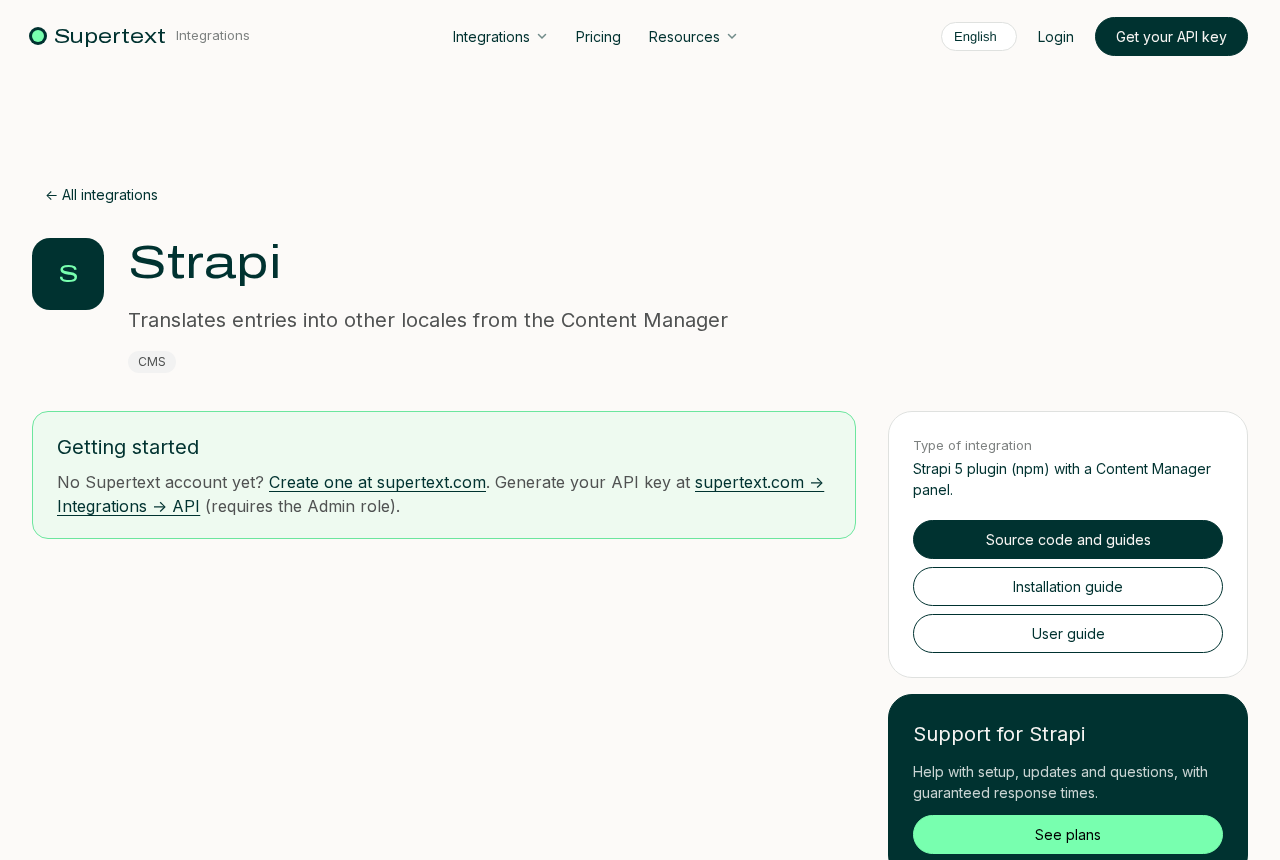
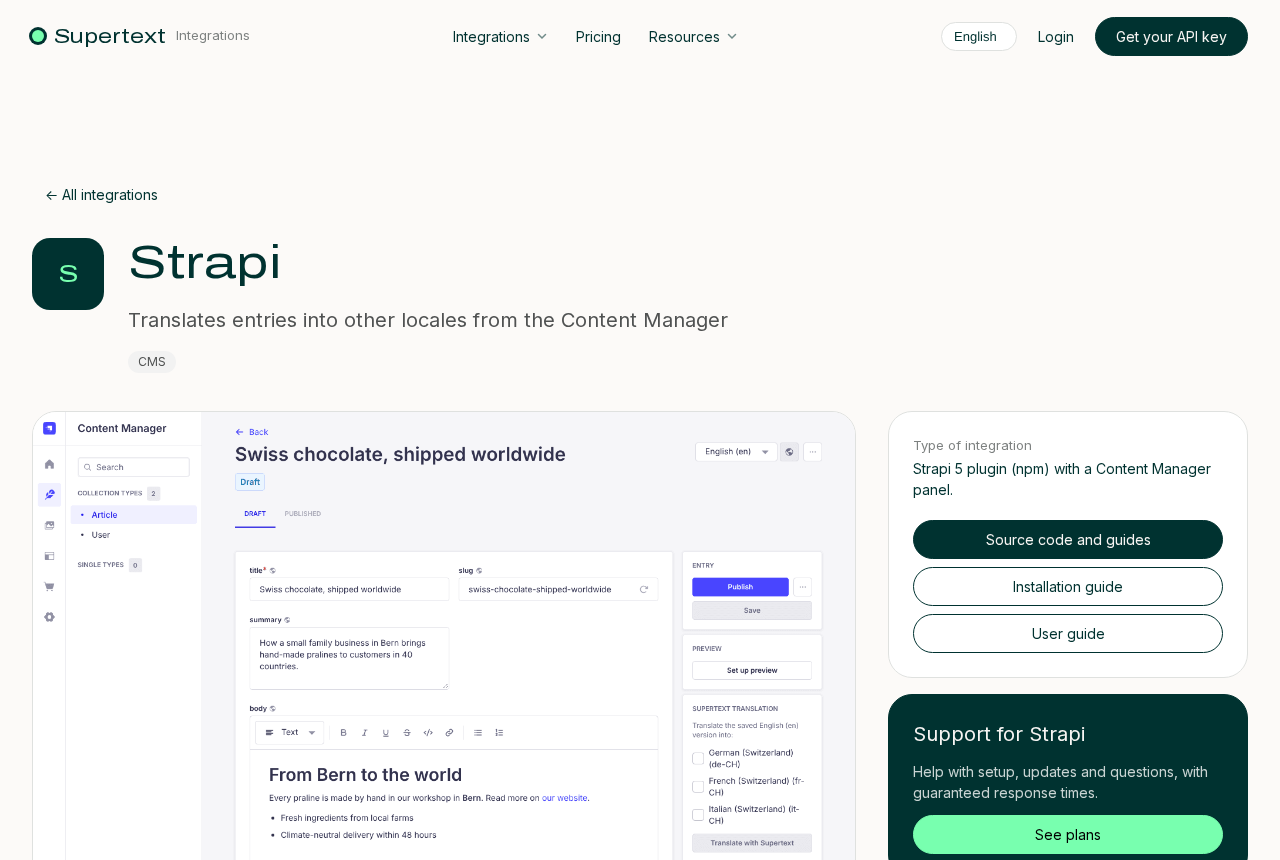
Integration screenshots on cards and integration pages
New screenshot field on Integration. On start, integrations without one get the
plugin screenshot from their repo's docs (seed/screenshots.js, 26 of 31).

Claude-Session: https://claude.ai/code/session_01QsR9paqC9omeCqnFui4tiq

diff --git a/cms/src/screenshots.js b/cms/src/screenshots.js
@@ -1,0 +1,78 @@
+'use strict';
+
+const fs = require('fs');
+const os = require('os');
+const path = require('path');
+const SOURCES = require('./seed/screenshots');
+
+const UID = 'api::integration.integration';
+
+/** True when the draft has changes that aren't published yet (then we leave publishing to the editor). */
+async function hasUnpublishedChanges(strapi, documentId) {
+  const [draft, published] = await Promise.all([
+    strapi.documents(UID).findOne({ documentId, locale: 'en', status: 'draft', fields: ['updatedAt'] }),
+    strapi.documents(UID).findOne({ documentId, locale: 'en', status: 'published', fields: ['updatedAt'] }),
+  ]);
+  if (!published) return true;
+  return new Date(draft.updatedAt) - new Date(published.updatedAt) > 1000;
+}
+
+/**
+ * Gives each integration without a screenshot the one listed in seed/screenshots.js,
+ * downloaded from its GitHub repo. Runs on every start; does nothing once all are set.
+ */
+async function importScreenshots(strapi) {
+  const items = await strapi.documents(UID).findMany({
+    locale: 'en',
+    status: 'draft',
+    fields: ['slug', 'system', 'repo'],
+    populate: ['screenshot'],
+    limit: 500,
+  });
+  const todo = items.filter((i) => !i.screenshot && SOURCES[i.slug] && i.repo);
+  if (!todo.length) return;
+
+  const upload = strapi.plugin('upload').service('upload');
+  const dir = fs.mkdtempSync(path.join(os.tmpdir(), 'screenshots-'));
+  let done = 0;
+  try {
+    for (const item of todo) {
+      const source = SOURCES[item.slug];
+      try {
+        const res = await fetch(`https://raw.githubusercontent.com/${item.repo}/HEAD/${source}`);
+        if (!res.ok) throw new Error(`GitHub ${res.status}`);
+        const buffer = Buffer.from(await res.arrayBuffer());
+        const ext = path.extname(source).toLowerCase();
+        const filename = `${item.slug}-supertext${ext}`;
+        const filepath = path.join(dir, filename);
+        fs.writeFileSync(filepath, buffer);
+        const [file] = await upload.upload({
+          data: {
+            fileInfo: {
+              name: filename,
+              alternativeText: `Supertext translation in ${item.system}`,
+              caption: `Supertext in ${item.system}`,
+            },
+          },
+          files: {
+            filepath,
+            originalFilename: filename,
+            mimetype: ext === '.jpg' || ext === '.jpeg' ? 'image/jpeg' : 'image/png',
+            size: buffer.length,
+          },
+        });
+        const publish = !(await hasUnpublishedChanges(strapi, item.documentId));
+        await strapi.documents(UID).update({ documentId: item.documentId, locale: 'en', data: { screenshot: file.id } });
+        if (publish) await strapi.documents(UID).publish({ documentId: item.documentId, locale: 'en' });
+        done++;
+      } catch (error) {
+        strapi.log.warn(`[setup] Screenshot for ${item.slug}: ${error.message}`);
+      }
+    }
+  } finally {
+    fs.rmSync(dir, { recursive: true, force: true });
+  }
+  strapi.log.info(`[setup] Imported ${done} of ${todo.length} integration screenshots`);
+}
+
+module.exports = { importScreenshots };

diff --git a/web/src/app/[locale]/integrations/[slug]/page.js b/web/src/app/[locale]/integrations/[slug]/page.js
@@ -1,20 +1,23 @@
+import Image from 'next/image';
 import Link from 'next/link';
 import { notFound } from 'next/navigation';
 import Blocks from '@/components/Blocks';
 import Markdown from '@/components/Markdown';
 import Mark from '@/components/Mark';
 import IntegrationCard from '@/components/IntegrationCard';
-import { getIntegration, getIntegrations, mediaUrl } from '@/lib/strapi';
+import { getIntegration, getIntegrations, imageProps, mediaUrl } from '@/lib/strapi';
 import { ACCOUNT_URL, API_KEY_URL, format, isLocale, strings } from '@/lib/i18n';
 
 export async function generateMetadata({ params }) {
   const { locale, slug } = await params;
   const item = await getIntegration(slug, locale).catch(() => null);
   if (!item) return {};
+  const image = mediaUrl(item.seo?.ogImage) || mediaUrl(item.screenshot);
   return {
     title: item.seo?.metaTitle || `${item.system}`,
     description: item.seo?.metaDescription || item.summary,
     alternates: { canonical: `/${locale}/integrations/${slug}` },
+    ...(image && { openGraph: { images: [image] } }),
   };
 }
 
@@ -29,7 +32,8 @@ export default async function IntegrationPage({ params }) {
   const t = strings(locale);
   const release = all.find((i) => i.slug === slug)?.release;
   const related = all.filter((i) => i.category === item.category && i.slug !== slug).slice(0, 4)
-    .map((i) => ({ ...i, logoUrl: mediaUrl(i.logo) }));
+    .map((i) => ({ ...i, logoUrl: mediaUrl(i.logo), screenshot: imageProps(i.screenshot) }));
+  const screenshot = imageProps(item.screenshot);
   const docs = item.repo ? `https://github.com/${item.repo}/blob/main/docs` : null;
 
   return (
@@ -57,6 +61,11 @@ export default async function IntegrationPage({ params }) {
       <section className="section" style={{ paddingTop: 0 }}>
         <div className="container detail">
           <div style={{ display: 'grid', gap: 24 }}>
+            {screenshot && (
+              <figure className="screenshot">
+                <Image src={screenshot.src} alt={screenshot.alt} width={screenshot.width} height={screenshot.height} sizes="(max-width: 960px) 100vw, 860px" priority />
+              </figure>
+            )}
             {item.description && <div className="card"><Markdown locale={locale}>{item.description}</Markdown></div>}
             <div className="notice highlight" style={{ margin: 0, maxWidth: 'none' }}>
               <h2 style={{ fontSize: 20, marginBottom: 8 }}>{t.gettingStarted}</h2>

diff --git a/web/src/lib/strapi.js b/web/src/lib/strapi.js
@@ -12,6 +12,13 @@ export function mediaUrl(media) {
   return url.startsWith('http') ? url : `${PUBLIC_URL}${url}`;
 }
 
+/** What the client components need of an image: url, size and alt text. */
+export function imageProps(media) {
+  const src = mediaUrl(media);
+  if (!src) return null;
+  return { src, width: media.width || 1200, height: media.height || 800, alt: media.alternativeText || '' };
+}
+
 /**
  * GET from Strapi's REST API with the site's read-only token.
  * In draft mode (the admin's preview pane) drafts are read and nothing is cached.
@@ -57,7 +64,7 @@ export const getPage = (slug, locale) =>
   localized('/pages', { filters: { slug: { $eq: slug } }, populate: { seo: { populate: '*' }, blocks: BLOCK_POPULATE } }, locale);
 
 export const getIntegration = (slug, locale) =>
-  localized('/integrations', { filters: { slug: { $eq: slug } }, populate: { logo: true, seo: { populate: '*' }, blocks: BLOCK_POPULATE } }, locale);
+  localized('/integrations', { filters: { slug: { $eq: slug } }, populate: { logo: true, screenshot: true, seo: { populate: '*' }, blocks: BLOCK_POPULATE } }, locale);
 
 export const getGlobal = (locale) =>
   localized('/global', {
@@ -66,7 +73,7 @@ export const getGlobal = (locale) =>
 
 /** All integrations (in the language if translated, else English), with their latest GitHub release. */
 export async function getIntegrations(locale) {
-  const query = { populate: { logo: true }, sort: ['order:asc', 'system:asc'], pagination: { pageSize: 100 } };
+  const query = { populate: { logo: true, screenshot: true }, sort: ['order:asc', 'system:asc'], pagination: { pageSize: 100 } };
   const [own, english, releases] = await Promise.all([
     locale === 'en' ? null : strapi('/integrations', { ...query, locale }),
     strapi('/integrations', { ...query, locale: 'en' }),

diff --git a/cms/src/seed/screenshots.js b/cms/src/seed/screenshots.js
@@ -1,0 +1,33 @@
+'use strict';
+
+// Screenshot of each plugin in action, from the docs/images folder of its GitHub repo.
+// Imported once (src/screenshots.js) for integrations that have no screenshot yet;
+// editors can replace them in the admin. Integrations without an entry keep the monogram.
+module.exports = {
+  'adobe-experience-manager': 'docs/assets/featured1.png',
+  apostrophecms: 'docs/images/localize-translate.png',
+  contao: 'docs/images/02-translate-screen.png',
+  'craft-cms': 'docs/images/01-translate-box.png',
+  directus: 'docs/images/01-translate-box.png',
+  'django-cms': 'docs/images/02-translate-dialog.png',
+  ghost: 'docs/images/translated-de.png',
+  grav: 'docs/images/panel-before.png',
+  joomla: 'docs/images/translate-dialog.png',
+  magnolia: 'docs/images/translate-dialog.png',
+  neos: 'docs/images/translated-page.png',
+  'orchard-core': 'docs/images/translate-before.png',
+  'payload-cms': 'docs/images/translate-menu.png',
+  silverstripe: 'docs/images/01-supertext-tab.png',
+  strapi: 'docs/images/edit-view.png',
+  typo3: 'docs/images/wizard-mode.png',
+  umbraco: 'docs/images/translate-dialog.png',
+  wagtail: 'docs/images/translation-editor.png',
+  wordpress: 'docs/images/orders.png',
+  'akeneo-pim': 'docs/images/02-translate-dialog.png',
+  atropim: 'docs/images/product-description.png',
+  pimcore: 'docs/images/document-translate-dialog.png',
+  magento: 'docs/images/translate-page.png',
+  prestashop: 'docs/images/translate-page.png',
+  wix: 'docs/images/translate-page.png',
+  mailchimp: 'docs/images/translate-page.png',
+};

diff --git a/web/src/app/globals.css b/web/src/app/globals.css
@@ -315,3 +315,18 @@ button { font: inherit; }
 
 .page-simple { padding: 96px 0; text-align: center; display: grid; gap: 16px; justify-items: center; }
 .price strong.phrase { font-size: 22px; line-height: 1.25; }
+
+/* Integration screenshots */
+.integration { grid-template-rows: auto auto 1fr auto; }
+.shot {
+  aspect-ratio: 16 / 10; border-radius: 10px; overflow: hidden; background: var(--grey);
+  border: 1px solid var(--green-grey); margin: -4px -4px 4px;
+}
+.shot img { width: 100%; height: 100%; object-fit: cover; object-position: top left; transition: transform .3s; }
+.integration:hover .shot img { transform: scale(1.03); }
+.shot-placeholder {
+  width: 100%; height: 100%; display: flex; align-items: center; justify-content: center;
+  background: radial-gradient(circle at 30% 20%, #78ffaf33, transparent 60%), var(--dark-green-wash);
+}
+.screenshot { margin: 0; border-radius: var(--radius-card); overflow: hidden; border: 1px solid var(--green-grey); background: var(--white); }
+.screenshot img { width: 100%; height: auto; }

diff --git a/web/src/components/IntegrationCard.js b/web/src/components/IntegrationCard.js
@@ -1,9 +1,25 @@
+import Image from 'next/image';
 import Link from 'next/link';
 import Mark from './Mark';
 
 export default function IntegrationCard({ item, locale, t }) {
   return (
     <Link href={`/${locale}/integrations/${item.slug}`} className="tile integration">
+      <div className="shot" aria-hidden={!item.screenshot}>
+        {item.screenshot ? (
+          <Image
+            src={item.screenshot.src}
+            alt={item.screenshot.alt}
+            width={item.screenshot.width}
+            height={item.screenshot.height}
+            sizes="(max-width: 620px) 100vw, (max-width: 1100px) 50vw, 320px"
+          />
+        ) : (
+          <span className="shot-placeholder">
+            <Mark name={item.system} logo={item.logoUrl} large />
+          </span>
+        )}
+      </div>
       <div className="integration-top">
         <Mark name={item.system} logo={item.logoUrl} />
         <h3>{item.system}</h3>

diff --git a/web/src/components/Blocks.js b/web/src/components/Blocks.js
@@ -10,7 +10,7 @@ import Notice from './blocks/Notice';
 import LogoStrip from './blocks/LogoStrip';
 import IntegrationGrid from './blocks/IntegrationGrid';
 import PlanCards from './blocks/PlanCards';
-import { getIntegrations, mediaUrl } from '@/lib/strapi';
+import { getIntegrations, imageProps, mediaUrl } from '@/lib/strapi';
 
 const STATIC = {
   'blocks.hero': Hero,
@@ -31,7 +31,7 @@ export default async function Blocks({ blocks, locale, t, searchParams = {} }) {
   const integrations = needsIntegrations
     ? (await getIntegrations(locale)).map((i) => ({
         slug: i.slug, system: i.system, category: i.category, stage: i.stage, summary: i.summary,
-        logoUrl: mediaUrl(i.logo), release: i.release ? { version: i.release.version } : null,
+        logoUrl: mediaUrl(i.logo), screenshot: imageProps(i.screenshot), release: i.release ? { version: i.release.version } : null,
       }))
     : [];
 

diff --git a/cms/src/index.js b/cms/src/index.js
@@ -2,6 +2,7 @@
 
 const integrations = require('./seed/integrations');
 const content = require('./seed/content');
+const { importScreenshots } = require('./screenshots');
 
 const LOCALES = [
   { code: 'de', name: 'German (de)' },
@@ -160,6 +161,9 @@ module.exports = {
     if (codes) await step('Editor locales', () => grantEditorAllLocales(strapi, codes));
     await step('Web API token', () => ensureWebToken(strapi));
     await step('Seed content', () => seed(strapi));
+
+    // Screenshots come from GitHub; don't hold up the start for them.
+    importScreenshots(strapi).catch((e) => strapi.log.warn(`[setup] Screenshots: ${e.message}`));
 
     // First start: fetch the release info right away instead of waiting for the night.
     if ((await strapi.db.query('api::github-release.github-release').count()) === 0) {

diff --git a/cms/test/seed.test.js b/cms/test/seed.test.js
@@ -19,3 +19,12 @@ test('preview paths', () => {
   assert.equal(previewPath('api::integration.integration', { slug: 'strapi' }, 'fr'), '/fr/integrations/strapi');
   assert.equal(previewPath('api::subscription.subscription', {}, 'en'), null);
 });
+
+test('every screenshot source belongs to a seeded integration with a repo', () => {
+  const screenshots = require('../src/seed/screenshots');
+  const bySlug = new Map(integrations.map((i) => [i.slug, i]));
+  for (const [slug, source] of Object.entries(screenshots)) {
+    assert.ok(bySlug.get(slug)?.repo, `${slug} has a repo`);
+    assert.match(source, /^docs\/[\w./-]+\.(png|jpe?g)$/, slug);
+  }
+});

diff --git a/docs/DEVELOPER.md b/docs/DEVELOPER.md
@@ -29,7 +29,7 @@ Browser ──► web (Next.js 16, App Router) ──REST + read token──► 
 
 Blocks are components in `cms/src/components/blocks/`, shared parts in `cms/src/components/shared/`. To add a block: create its schema, add it to the `blocks` dynamic zone of Page and Integration, add its populate rule in `web/src/lib/strapi.js` (`BLOCK_POPULATE`), its component in `web/src/components/blocks/` and its entry in `web/src/components/Blocks.js`.
 
-Seed content (`cms/src/seed/`) is created only when a type is empty. The integration list mirrors the plugin list in the plugin conventions; when that list changes, update the Integration entries in the CMS (and the seed for fresh installs).
+Seed content (`cms/src/seed/`) is created only when a type is empty. Integration screenshots are separate: on every start, `cms/src/screenshots.js` downloads the image listed in `seed/screenshots.js` from the plugin repo (raw.githubusercontent.com) for each integration that has no screenshot yet, uploads it to the media library and publishes it (unless the entry has unpublished edits, which stay for the editor to publish). Once all are set it does nothing. To use a different image, replace it in the admin; to change the default, edit `seed/screenshots.js`. The integration list mirrors the plugin list in the plugin conventions; when that list changes, update the Integration entries in the CMS (and the seed for fresh installs).
 
 ## Local setup
 
@@ -47,7 +47,7 @@ npm install
 npm run dev                       # http://localhost:3000
 ```
 
-With `DATABASE_URL` (and `INTEGRATIONS_DB_NAME`), `npm start` first creates the database on that server (`scripts/ensure-db.js`, URL helper in `lib/database-url.js`). Without `DATABASE_URL`, Strapi uses SQLite in `cms/.tmp/` (delete the folder to start over with fresh seed content).
+With `DATABASE_URL` (and `INTEGRATIONS_DB_NAME`), `npm start` first creates the database on that server (`scripts/ensure-db.js`, URL helper in `lib/database-url.js`). Locally (Strapi on `localhost`) the website serves images unoptimised, because Next.js doesn't optimise images from private addresses. Without `DATABASE_URL`, Strapi uses SQLite in `cms/.tmp/` (delete the folder to start over with fresh seed content).
 
 For the shop, use Stripe test keys and forward webhooks with the Stripe CLI: `stripe listen --forward-to localhost:1337/api/shop/webhook`, then put the printed `whsec_…` in `STRIPE_WEBHOOK_SECRET`.
 

diff --git a/CHANGELOG.md b/CHANGELOG.md
@@ -5,7 +5,7 @@
 - Strapi 5 CMS with reusable blocks (hero, plan cards, feature cards, use case, comparison table, integration grid, logo strip, FAQ, call to action, rich text, notice) for pages and integration pages.
 - Preview of drafts next to the editor, with automatic reload on save.
 - Content in English, German, French and Italian; translation with the Supertext Strapi plugin into Swiss German, French and Italian (formal).
-- All Supertext integrations as content, with their latest GitHub release synced every night.
+- All Supertext integrations as content, with their latest GitHub release synced every night and a screenshot of each plugin (imported from its repo) on the cards and integration pages.
 - Service plans with monthly and annual prices and a Stripe Checkout shop; subscriptions recorded through the Stripe webhook.
 - Next.js website in the style of supertext.com: start, integrations, pricing and one page per integration.
 - Runs on Railway in its own project (supertext-integrations-site): CMS, website and Postgres in the ams region.

diff --git a/docs/USER_GUIDE.md b/docs/USER_GUIDE.md
@@ -53,6 +53,7 @@ Not translated yet? Visitors see the English version of that page or integration
 - *category* decides the filter button; *order* the position in the grid.
 - *stage* `in_development` adds an "In development" label and takes the integration out of the platform list at checkout.
 - *repo* is the GitHub repository (`Supertext/<name>`). It links the guides and brings in the latest version every night.
+- *screenshot*: the image on the integration's card and at the top of its page, ideally the Supertext panel or dialog in that system. New integrations get one automatically if `cms/src/seed/screenshots.js` lists it; replace it any time in the admin. Without a screenshot, the card shows the initials instead.
 - *logo*: without one, the site shows the initials.
 - *blocks*: optional extra sections on the integration's page.
 
